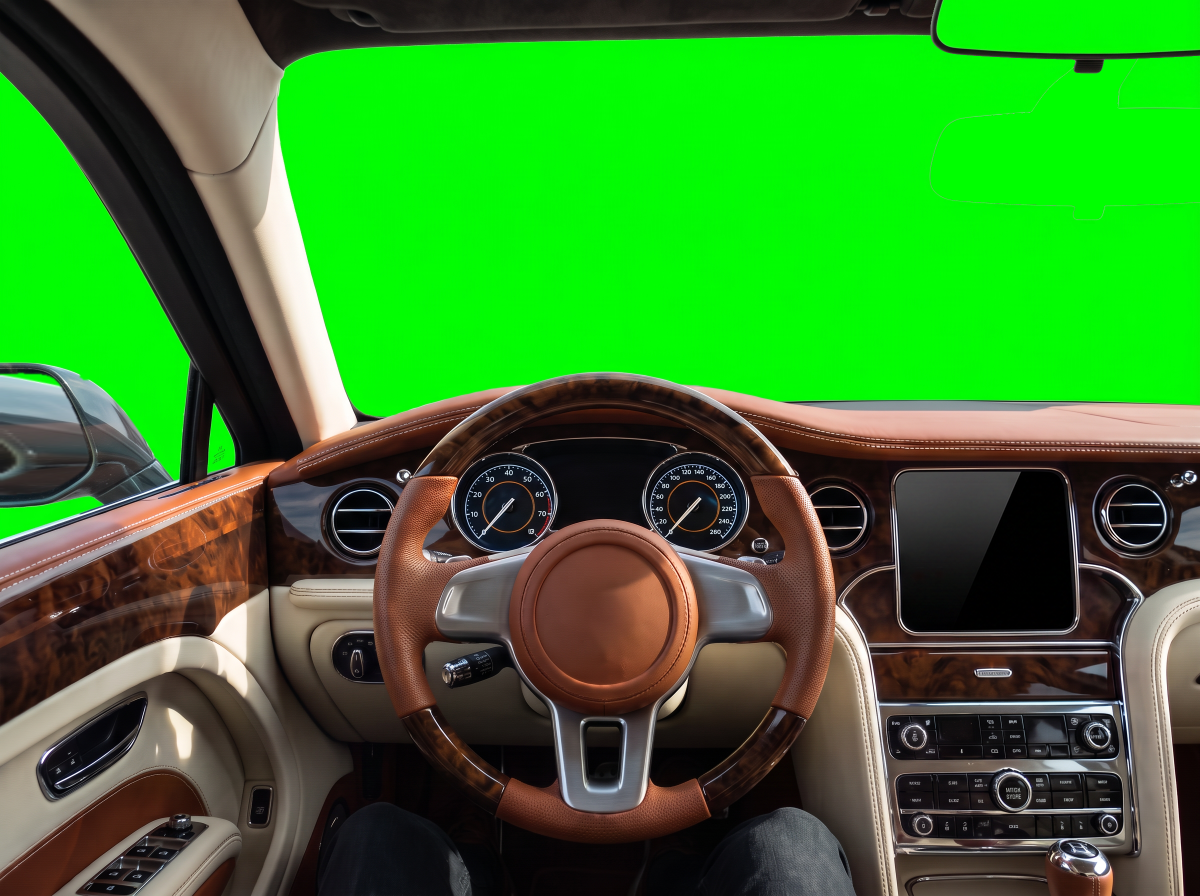
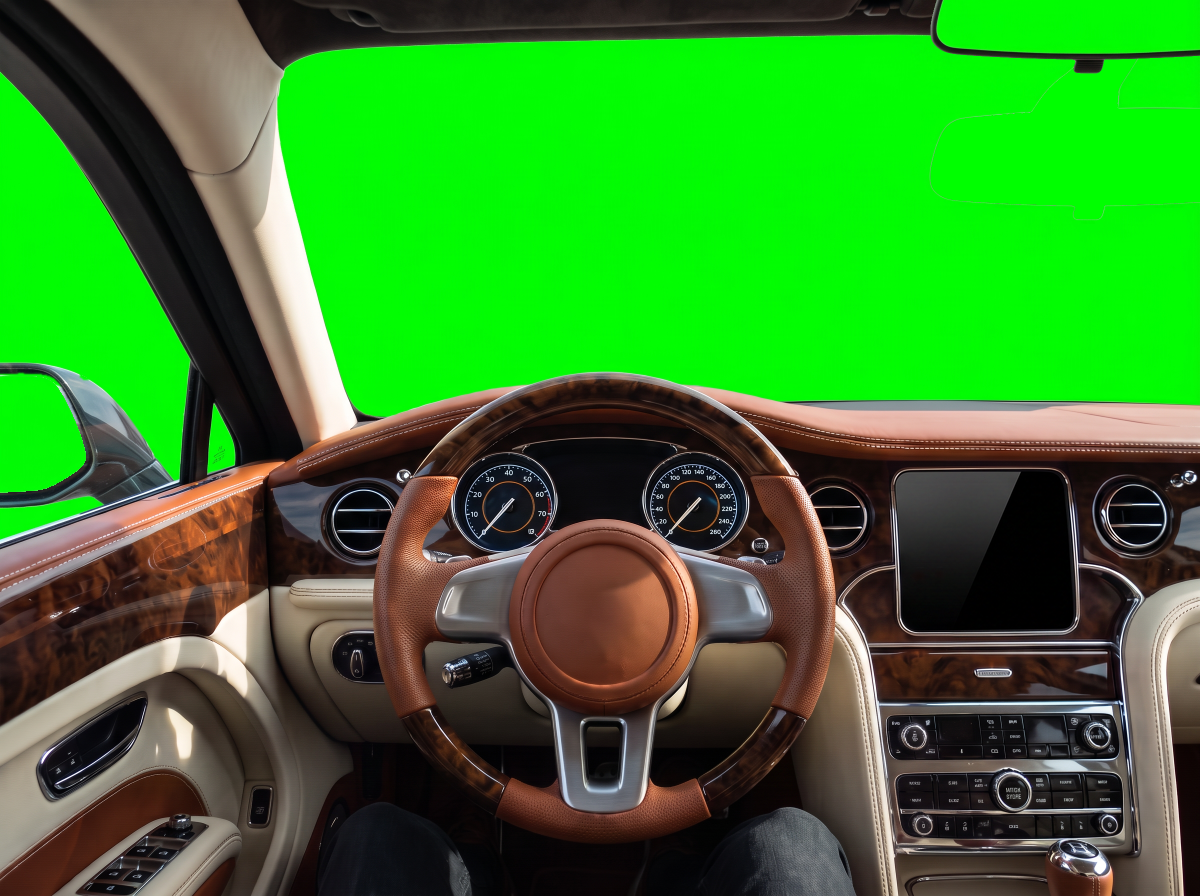
fx-24 round 3 tools: pace.py measures true road speed (geometry-normalised), sign.py erase mode, dark door mirror in both cars

Changed region(s): [[0.0, 0.4062, 0.0925, 0.5625]]

diff --git a/tools/footage/pace.py b/tools/footage/pace.py
@@ -3,32 +3,34 @@
 
 The dials cruise at one speed through every cruise clip, but the video models drive each plate at their own pace, and
 some speed up or slow down inside a clip, so a dissolve into a slower plate reads as the car braking for no reason
-(the user, 20 October: "it always starts each new scene really slow"). This measures the apparent speed of each frame as
-the optical flow in the road band (the bottom part of the frame, where the asphalt and the verges stream past) in px per
-frame at 336 px wide, smooths it over a second, and plays the plate back at a varying rate so the flow is steady at the
-target: the pack's cruise pace, 3.5 (the median of the California Coast cruise clips). A slow plate gets shorter, a surge
-is flattened. Frames are picked, never blended (a blend of two frames ten pixels apart is a double image): a plate played
-faster than the source picks the nearest source frame, and a plate slowed anywhere is first motion-interpolated to UP (3)
-times its frame rate with ffmpeg's minterpolate, and the picks come from that. The rate is clamped (RATE_MIN 0.35 to
+(the user, 20 October: "it always starts each new scene really slow"; 27 October, after a first pacing: "the driver
+speeds up, then slows down, then speeds up"). This measures the forward speed of each frame from the optical flow in the
+road band (the bottom part of the frame, where the asphalt and the verges stream past), normalised for the ground's
+geometry (see flow()), in px per frame at 336 px wide at the band's bottom row, smooths it over a second and a half,
+and plays the plate back at a varying rate so the speed is steady at the target: the pack's cruise pace, 17 (the
+California Coast cruise clips ran 8 to 21 by this measure after the first pacing had made their band means equal). A slow plate gets shorter, a surge
+is flattened. Frames are picked, never blended (a blend of two frames ten pixels apart is a double image): a plate retimed
+anywhere is first motion-interpolated to UP (3) times its frame rate with ffmpeg's minterpolate, and the picks come from that
+(picking source frames alone for a sped-up plate stepped 1, 1, 2, 1, 2 frames: a judder). The rate is clamped (RATE_MIN 0.35 to
 RATE_MAX 3) so a plate that nearly stands still (a hold, a traffic light) is not rushed into a blur; where the clamp bites,
 <out>.speed.csv carries the residual (the apparent speed over the target), and session.sh turns it into the dials.
 Everywhere else it is 1.
 
 Pace a plate before ramping it (ramp.py multiplies the pace by its own crawl). A repainted sign (sign.py fix) survives
-pacing: the picks are whole frames, and the interpolation keeps a flat face flat. Holds are not paced. Env: TARGET (3.5),
-BAND (0.55:0.92, the rows of the frame measured), SMOOTH (24 frames), RATE_MIN, RATE_MAX, UP, MINLEN (3 s: refuse a
+pacing: the picks are whole frames, and the interpolation keeps a flat face flat. Holds are not paced. Env: TARGET (17),
+BAND (0.55:0.92, the rows of the frame measured), YH (0.45, the horizon), SMOOTH (36 frames), RATE_MIN, RATE_MAX, UP, MINLEN (3 s: refuse a
 result shorter than this, since a dissolve takes 1 s at each end).
 
-The flow measure is good up to about 4 px per frame and under-reads above it (a plate played at 3x its speed reads 5.6
-where 8.7 is true), so `measure` on a paced clip that was sped up more than about 1.5x reads low; the pacing itself is
-measured on consecutive source frames, where it holds."""
+The measure is linear to about 28 and under-reads above it (a plate played at 3x reads 2.2x), so `measure` on a plate
+far faster than the target reads low; the pacing itself is measured on consecutive source frames, where it holds."""
 import os, subprocess, sys, tempfile
 import cv2
 import numpy as np
 
-TARGET = float(os.environ.get("TARGET", 3.5))
+TARGET = float(os.environ.get("TARGET", 17))
 BAND = [float(x) for x in os.environ.get("BAND", "0.55:0.92").split(":")]
-SMOOTH = int(os.environ.get("SMOOTH", 24))
+SMOOTH = int(os.environ.get("SMOOTH", 36))
+YH = float(os.environ.get("YH", 0.45))
 RATE_MIN, RATE_MAX = float(os.environ.get("RATE_MIN", 0.35)), float(os.environ.get("RATE_MAX", 3))
 MINLEN = float(os.environ.get("MINLEN", 3))
 UP = int(os.environ.get("UP", 3))
@@ -48,17 +50,30 @@ def read(src):
 
 
 def flow(frames):
-    """Road-band flow per frame (px per frame at 336 px wide), smoothed over SMOOTH frames. Entry k is the motion
-    between frames k and k+1; the last repeats the one before."""
+    """Road speed per frame, smoothed over SMOOTH frames: the optical flow in the road band normalised for where it
+    is. A point on the road at row y below the horizon (YH, 0.45 of the height: the standard's horizon) streams past
+    in proportion to v * (y - yh)^2, so flow / (y - yh)^2 at textured pixels, taken as a median, is the forward speed
+    up to scale; it is reported as the flow a road pixel would have at the bottom row of the band (px per frame at
+    336 px wide). Only textured pixels count (smooth asphalt reads zero whatever the speed), and the median shrugs off
+    a car or a cyclist passing through the band. The plain mean of the band (used until 27 Oct 2026) depended on where
+    the texture happened to be: a freeway with far verges paced to the same mean as a hedged lane ran at a third of its
+    true speed, and the user felt the car brake and surge at every join. Entry k is the motion between frames k and k+1;
+    the last repeats the one before. Linear to about 28 (checked by playing a plate at 2x: 1.98x); beyond that it
+    under-reads."""
     h, w = frames[0].shape[:2]
     mh = int(round(h * MW / w))
     y0, y1 = int(mh * BAND[0]), int(mh * BAND[1])
+    yh = mh * YH
+    rows = (np.arange(y0, y1)[:, None] - yh) / mh
+    norm = ((BAND[1] - YH) ** 2) / rows ** 2
     small = [cv2.cvtColor(cv2.resize(f, (MW, mh), interpolation=cv2.INTER_AREA), cv2.COLOR_BGR2GRAY) for f in frames]
     raw = []
     for a, b in zip(small, small[1:]):
-        fl = cv2.calcOpticalFlowFarneback(a, b, None, 0.5, 3, 15, 3, 5, 1.2, 0)[y0:y1]
-        mag = np.hypot(fl[..., 0], fl[..., 1])
-        raw.append(float(mag.mean()))
+        fl = cv2.calcOpticalFlowFarneback(a, b, None, 0.5, 5, 21, 3, 5, 1.2, 0)[y0:y1]
+        mag = np.hypot(fl[..., 0], fl[..., 1]) * norm
+        tex = np.hypot(cv2.Sobel(a, cv2.CV_32F, 1, 0)[y0:y1], cv2.Sobel(a, cv2.CV_32F, 0, 1)[y0:y1])
+        conf = tex > max(np.percentile(tex, 60), 8)
+        raw.append(float(np.median(mag[conf])) if conf.sum() > 50 else (raw[-1] if raw else 0.0))
     raw.append(raw[-1] if raw else 0.0)
     raw = np.array(raw)
     if SMOOTH > 1 and len(raw) > SMOOTH:
@@ -95,7 +110,8 @@ def pace(src, out, target):
     if len(picks) / fps < MINLEN:
         sys.exit(f"{src}: paced to {target} it would run {len(picks) / fps:.1f} s (under {MINLEN} s); retake it at a higher stated speed or lower the target")
     h, w = frames[0].shape[:2]
-    up = UP if rate.min() < 0.999 else 1                      # slowed anywhere: pick from motion-interpolated frames
+    up = UP if rate.min() < 0.999 or rate.max() > 1.05 else 1   # slowed or sped anywhere: pick from motion-interpolated frames
+    # (a plate sped up by picking source frames alone steps 1, 1, 2, 1, 2 frames: a 24 Hz judder that reads as vibration)
     with tempfile.TemporaryDirectory() as tmp:
         rawp = os.path.join(tmp, "raw.mp4")
         wr = cv2.VideoWriter(rawp, cv2.VideoWriter_fourcc(*"mp4v"), fps, (w, h))

diff --git a/tools/footage/sign.py b/tools/footage/sign.py
@@ -29,7 +29,9 @@ stands in the last frame, so the next clip can start it there (run a clip revers
 
 TRACK=colour follows a plain board (a shop's blank sign board, which gives a template nothing to hold) as the patch of
 its own colour, from the start frame on; GROW=<factor> paints the face that much bigger, so a slip never shows the
-model's board beside it.
+model's board beside it. ERASE_UNTIL=<frame> paints the sign out (filled from its surroundings, post and all) instead of
+redrawing it on the frames before that one, -1 on every frame: for a far sign that stands in front of a nearer one until
+the nearer one has passed, or a repaint that will not sit still.
 
 KIND picks the sign and SIGN sets its text (lines joined by ";"):
   distance  Caltrans green, "place|miles" lines (the default: "Big Sur|19;San Simeon|85")
@@ -613,6 +615,26 @@ def smooth(quads, n):
     return out
 
 
+ERASE_UNTIL = int(os.environ.get("ERASE_UNTIL", 0))   # frames before this get the sign painted out instead (ERASE_UNTIL=-1: all)
+if ERASE_UNTIL < 0:
+    ERASE_UNTIL = 10 ** 9
+
+
+def erase(f, q):
+    """Paint the sign out: its face (grown a quarter) and the post below it are filled from their surroundings. For a
+    far sign that would stand in front of a nearer one, or a repaint that will not sit still; while it is small the fill
+    is invisible, so erase a sign that grows large only until it matters (ERASE_UNTIL)."""
+    H, W = f.shape[:2]
+    q = np.float32(q); c = q.mean(0); big = (q - c) * 1.25 + c
+    mask = np.zeros((H, W), np.uint8)
+    cv2.fillPoly(mask, [np.int32(np.round(big))], 255)
+    w = float(np.ptp(q[:, 0])); h = float(np.ptp(q[:, 1]))
+    x0, x1 = int(c[0] - 0.2 * w), int(c[0] + 0.2 * w)
+    cv2.rectangle(mask, (max(x0, 0), int(q[:, 1].max())), (min(x1, W - 1), min(int(q[:, 1].max() + 1.3 * h), H - 1)), 255, -1)
+    mask = cv2.dilate(mask, np.ones((3, 3), np.uint8))
+    return cv2.inpaint(f, mask, 5, cv2.INPAINT_TELEA)
+
+
 def fix(src, out, box=None, start=0, first=0, last=None):
     fr, fps = frames(src)
     wr, n, done = Writer(out, fps), 0, 0
@@ -712,7 +734,7 @@ def fix(src, out, box=None, start=0, first=0, last=None):
                 if os.environ.get("DEBUG"):
                     print(k, np.round(q.mean(0)).tolist(), w, h)
                 if 4 <= w < W0 and 2 <= h < H0:
-                    f = draw(f, q, w, h, gamut)
+                    f = erase(f, q) if k < ERASE_UNTIL else draw(f, q, w, h, gamut)
                     done += 1
             wr.write(f)
     wr.close()

diff --git a/tools/footage/README.md b/tools/footage/README.md
@@ -13,7 +13,7 @@ Needs `ffmpeg`, Python 3.9+ with Pillow, and for `steer.py`, `mirror.py`, `wheel
 | `car-build.sh <car dir>` | Derives a car's `wheel.png`, `glass-mask.png`, `mirror-mask.png`, `side-window-mask.png` and `glass-dirt.png` from its `cockpit.png`, `cabin.png` and `car.json`. The mirror masks come from the boxes in `car.json`, the windshield is the largest keyed region outside them, and the key runs with a 1 px pad (FFmpeg's `chromakey` misreads the border row). See [cars/](../../cars/README.md). |
 | `mirror.py <cockpit> <out> [visible]` | Hangs a generated cockpit's rear-view mirror from the top edge of the frame, with `visible` (0.5) of its height in frame and no stalk or console, by cutting it off the flat green glass. Run before the cabin edit. |
 | `sheet.py <out.png> <cols> <width> <img>=<label> …` | A labelled contact sheet of stills, for review images. |
-| `pace.py <in> <out> [target]` / `pace.py measure <clip…>` | Retimes a plate so the road passes at a steady pace (optical flow in the road band, px per frame at 336 wide, smoothed over a second; the target is the pack's cruise pace, 3.5), so the speed carries across every join instead of each scene opening slow. A slow plate gets shorter, a surge is flattened. Frames are picked, never blended: a slowed plate is first motion-interpolated with ffmpeg (`UP`, 3x). Writes `<out>.speed.csv` where the rate clamp (`RATE_MIN` 0.35, `RATE_MAX` 3) left a residual. Pace before ramping; not for holds. `measure` prints each clip's pace at its start, middle and end. |
+| `pace.py <in> <out> [target]` / `pace.py measure <clip…>` | Retimes a plate so the road passes at a steady pace (the forward speed from the optical flow in the road band, normalised for the ground's geometry so a far verge and a near hedge read the same, as the flow a road pixel would have at the band's bottom row, px per frame at 336 wide, smoothed over a second and a half; the target is the pack's cruise pace, 17; until 27 Oct it was the band's plain mean at 3.5, and plates with the same mean ran at speeds 2.5x apart), so the speed carries across every join instead of each scene opening slow. A slow plate gets shorter, a surge is flattened. Frames are picked, never blended: a slowed plate is first motion-interpolated with ffmpeg (`UP`, 3x). Writes `<out>.speed.csv` where the rate clamp (`RATE_MIN` 0.35, `RATE_MAX` 3) left a residual. Pace before ramping; not for holds. `measure` prints each clip's pace at its start, middle and end. |
 | `ramp.py <in> <out> stop\|start <seconds> [floor]` | Re-times a plate to slow to a crawl (`stop`) or come up from one (`start`), for cutting a stop with dissolves instead of a generated turn; writes `<out>.speed.csv` for the dials. |
 | `handpaste.py <cockpit> <edit> <out-cockpit> <out-hands-mask>` | Takes new hands and forearms (gloves, sleeves) from an image edit of the cockpit still and pastes only them into the still: the original's skin region grown a little, plus whatever differs clearly and touches it (a cuff, a wider sleeve). Writes the feathered mask as `hands-mask.png`, which `car-build.sh` hands to `wheel.py` (`HANDS`) in place of its skin test, since gloves are not skin-coloured. A car with nobody at the wheel ships an all-black `hands-mask.png`, so the matte takes nothing outside the wheel's disc (without it, a strip of the repainted lap that passed the skin test trailed off the rim). |
 | `wheel.py <cockpit> <cabin> <hx> <hy> <r> <out>` | The wheel-and-hands matte: where the two stills differ, connected to the wheel. Inside `CLUSTER=x:y:w:h` bright pixels need a clear difference (re-drawn dial bezels would turn with the wheel), and a bite out of the rim (its inner edge jumping outward and back within 40°) is filled in. Warns about missing hand pixels and about any fill. `car-build.sh` runs it. |
